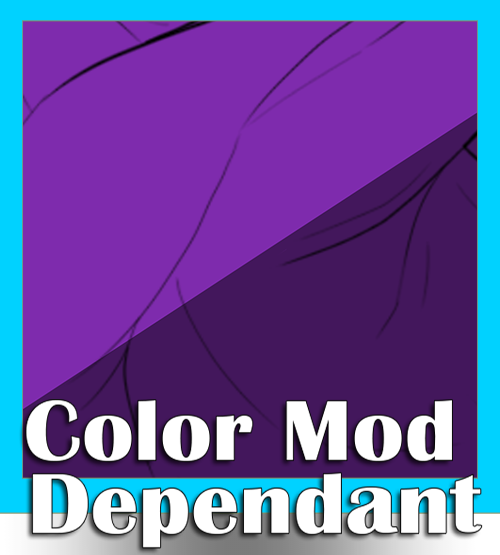
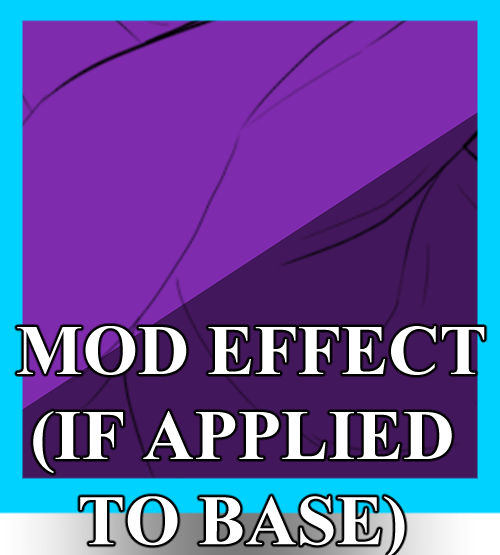
- Added Border to marking interactions blade (It was missing) - Re uploaded new "Free Outline" swatches (Previously "Allowed Bordered") - Re uploaded new "Mod Effect (If Applied to Base)" Swatches (Previously "Color Mod Dependant")

Changed region(s): [[0.0, 0.582, 1.0, 1.0], [0.03, 0.0306, 0.96, 0.0613]]

diff --git a/resources/views/design_guides/templates/_marking_interactions.blade.php b/resources/views/design_guides/templates/_marking_interactions.blade.php
@@ -30,6 +30,10 @@
         'Lilac' => ['All Markings'],
         'Prismatic' => ['All Markings'],
         'Iridescent' => ['All Markings'],
+        'Border' => ['Accents', 'Birthmark', 'Blush', 'Minimal Mark', 'Ankle', 'Socks', 'Tips', 'Blanket', 'Boar', 'Collar', 'Dun', 'Hood', 'Leaf', 'Masked', 'Points', 'Python',
+                     'Rimmed', 'Ripples', 'Skink', 'Trailing', 'Underbelly', 'Banded', 'Brindle', 'Crested', 'Dripping', 'Inkwell', 'Tobiano', 'Marbled', 'Pigeon', 'Plasma', 
+                     'Rosettes', 'Shaped', 'Tabby', 'Toxin', 'Blooded', 'Circuit', 'Eyes', 'Filigree', 'Glass', 'Lustrous', 'Painted', 'Patchwork', 'Petal', 'Aether Marked',
+                     'Arcane', 'Gemstone', 'Harlequin (Simple)', 'Lepir (Simple)', 'Rune', 'Triquetra', 'Constellation', 'Mermaid', 'Torched' ],
         'Dripping' => ['Accents', 'Birthmark', 'Blush', 'Freckles', 'Minimal Mark', 'Socks', 'Stockings', 'Tips', 
                         'Blanket', 'Boar (Bars)', 'Collar', 'Dun', 'Frog Eye', 'Hood', 'Leaf', 'Masked', 'Points', 
                         'Python', 'Rimmed', 'Ringed', 'Scaled', 'Skink', 'Trailing', 'Underbelly', 'Banded', 'Border', 'Brindle',
@@ -42,13 +46,13 @@
                         'Python', 'Rimmed', 'Ringed', 'Scaled', 'Skink', 'Stockings', 'Ripples', 'Cape', 'Trailing', 'Underbelly', 'Banded', 'Border', 'Brindle',
                         'Crested', 'Inkwell', 'Marbled', 'Metallic', 'Pigeon', 'Plasma', 'Rosettes', 'Shaped', 'Tabby', 'Tobiano', 'Toxin (bars)',
                         'Appaloosa', 'Blooded', 'Circuit', 'Patchwork', 'Eyes', 'Filigree', 'Glass', 'Luminescent', 'Lustrous', 'Painted', 'Petal', 'Aether Marked', 
-                        'Aurora', 'Arcane', 'Simple Harlequin', 'Gemstone', 'Lepir - Simple', 'Rune', 'Triquetra', 'Mermaid', 'Torch', 'Constellation', 'Confetti',
+                        'Aurora', 'Arcane', 'Simple Harlequin', 'Gemstone', 'Lepir - Simple', 'Rune', 'Triquetra', 'Mermaid', 'Torched', 'Constellation', 'Confetti',
                         'Teeth, Claws, horns, Gums, and Import Extras'],
         'Luminescent' => ['Accents', 'Birthmark', 'Blush', 'Freckles', 'Minimal Mark', 'Socks', 'Stockings', 'Tips',
                           'Boar (Bars)', 'Collar', 'Dun', 'Frog Eye', 'Leaf', 'Masked',
                           'Python', 'Rimmed', 'Ripples', 'Ringed', 'Scaled', 'Skink', 'Sotckings', 'Trailing', 'Banded', 'Border',
                           'Crested', 'Metallic (If not affecting a marking)', 'Pigeon', 'Plasma', 'Rosettes', 'Shaped', 'Toxin (bars)',
-                          'Eyes', 'Filigree', 'Petal', 'Aether Marked', 'Gemstone', 'Rune', 'Triquetra', 'Circuit', 'Confetti', 'Torch', 'Teeth, Claws, horns, Gums, and Import Extras',
+                          'Eyes', 'Filigree', 'Petal', 'Aether Marked', 'Gemstone', 'Rune', 'Triquetra', 'Circuit', 'Confetti', 'Torched', 'Teeth, Claws, horns, Gums, and Import Extras',
                           'These marking may only have 25% of their full range affected: Brindled, Cloud, Dapple, Dipped, Marbled, Merle, Smoke, Oilslick, Patchwork, Pearl,
                           Petrified, Specter, Arcane, and Mermaid'],
         // Special groupings for some modifiers
